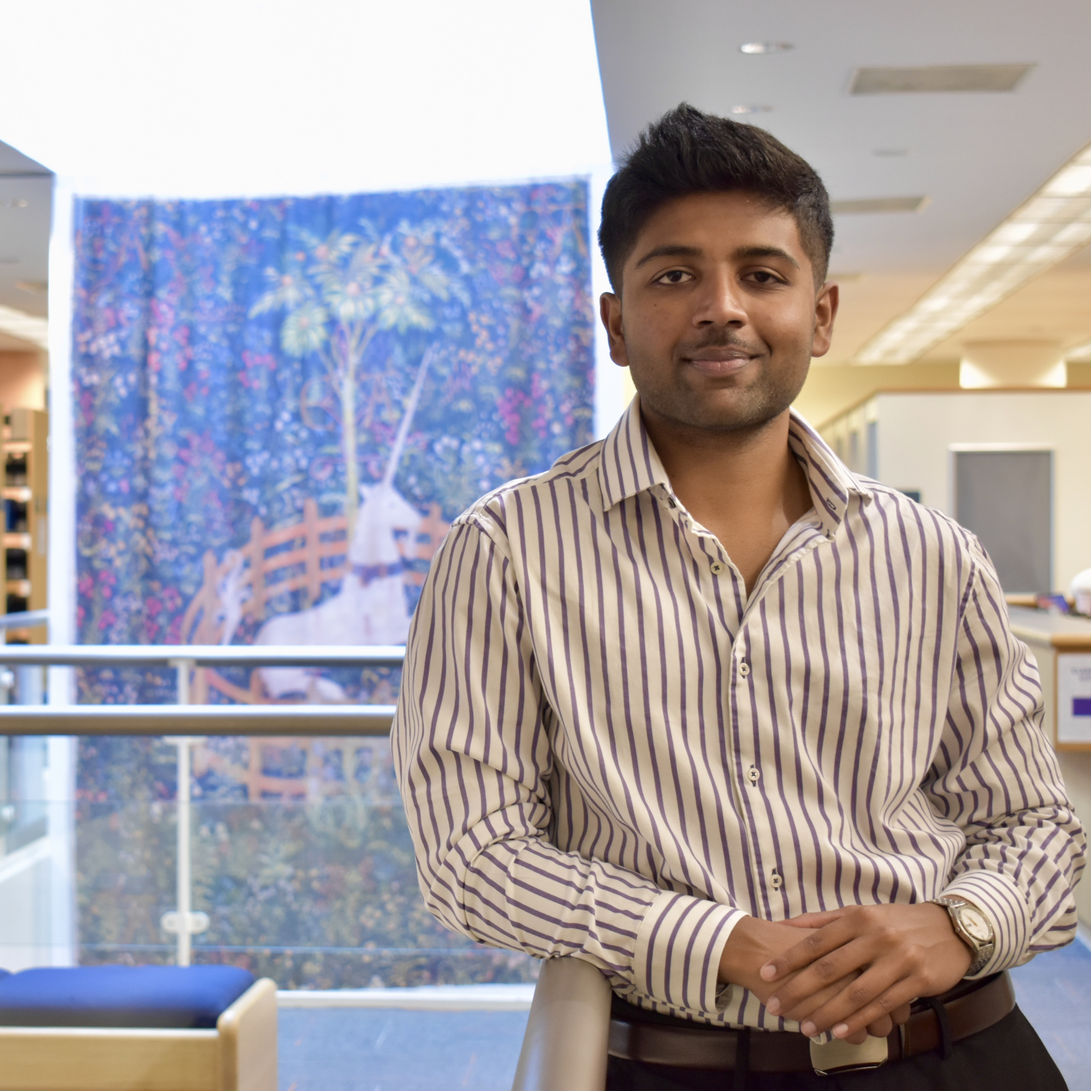
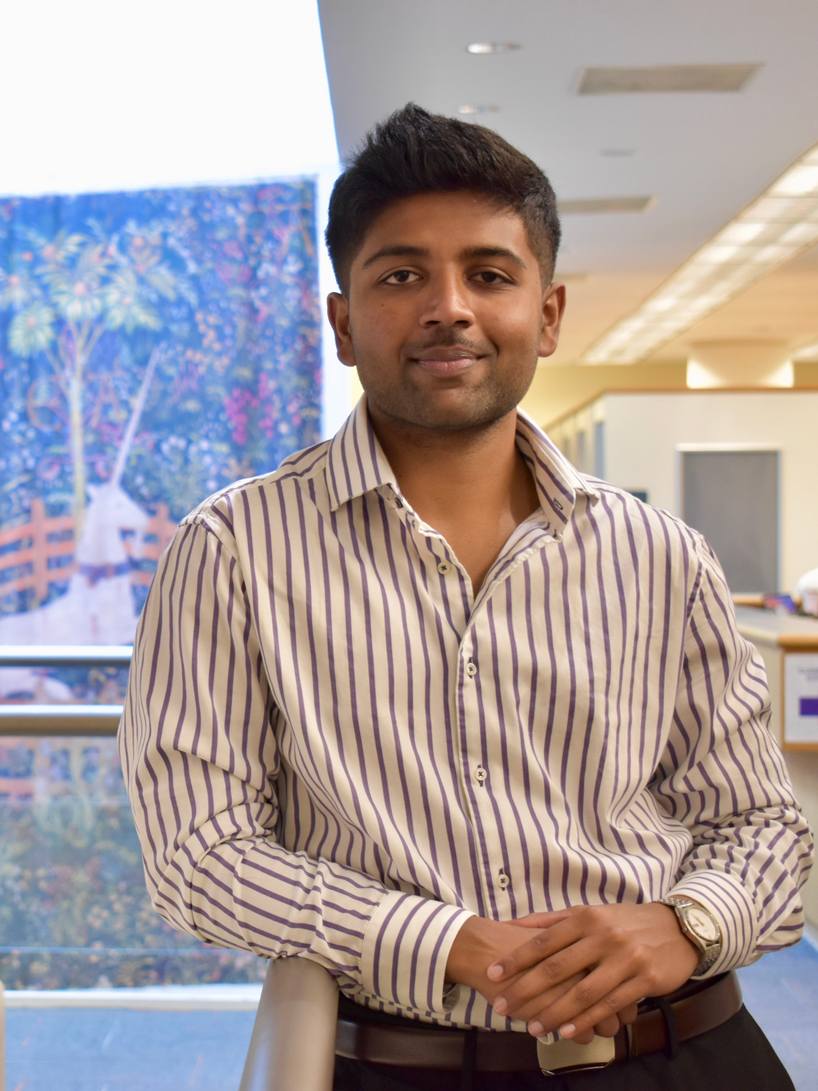
Fix the image issue in mobile

diff --git a/scss/custom.scss b/scss/custom.scss
@@ -34,14 +34,14 @@ $default-bold: 600;
 @media (max-width: 767.98px) { // Targets screens smaller than Bootstrap's 'md' breakpoint (768px)
   .ftco-about {
     .img-about {
-      min-height: 300px;
+      min-height: 500px;
       width: 100%;
       display: flex;
 
-      > .img {
+      > .img { // This targets the div with the background-image
         width: 100%;
         height: 100%;
-        background-size: cover;
+        background-size: contain; // Changed from 'cover' to 'contain'
         background-position: center;
         background-repeat: no-repeat;
       }

diff --git a/scss/custom.css b/scss/custom.css
@@ -3718,14 +3718,14 @@ html {
 
 @media (max-width: 767.98px) {
   .ftco-about .img-about {
-    min-height: 300px;
+    min-height: 500px;
     width: 100%;
     display: flex;
   }
   .ftco-about .img-about > .img {
     width: 100%;
     height: 100%;
-    background-size: cover;
+    background-size: contain;
     background-position: center;
     background-repeat: no-repeat;
   }
